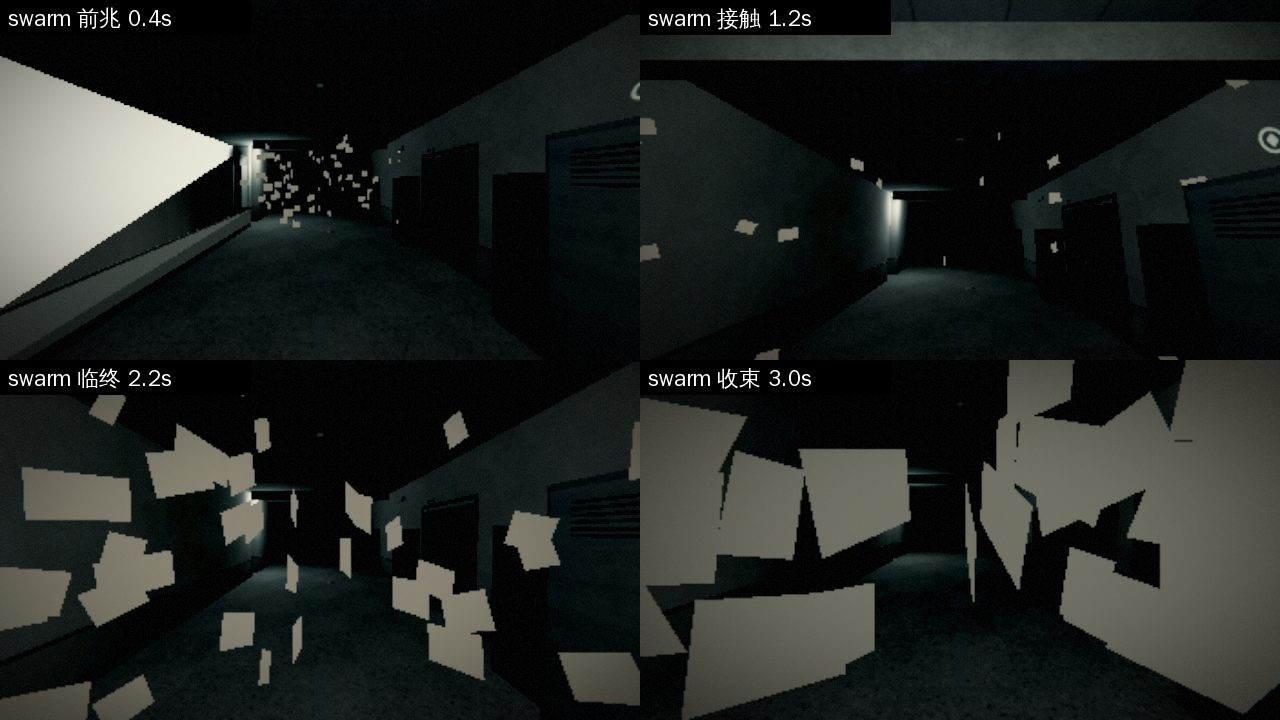
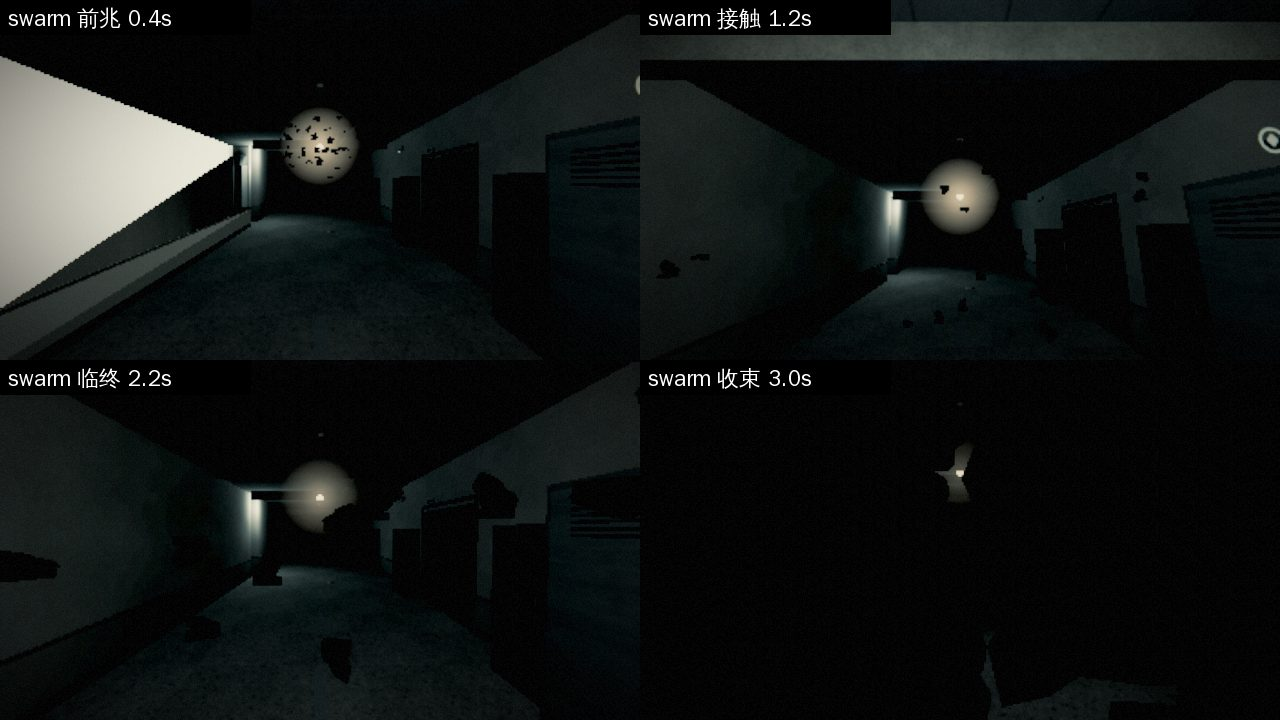
蛾群死亡演出：改用游戏里同一种黑色蛾子，灯下聚成一团
PR #18 合并时只把演出里的方片改成了黑色（cf2aad7）。这里换成完整版本：
- 蛾子和游戏里的蛾群（weather.js）是同一种：黑色翅膀 0x111111、黑色身子 0x080808、同样的翅膀形状，实例化一次画完。
- 按这个异象在游戏里的出场（「灯下面聚了一团飞蛾」）在蛾群起点吊一盏灯泡，黑蛾子映在灯光里才看得清；
  扑到脸上时黑翅膀糊满镜头，只从缝里漏一点光。灯光复用已有的光斑贴图，不新增着色器。
- 新增测试 test_death_moths_are_black_like_the_in_game_swarm，防止以后又改成别的颜色。
- 重拍 pictures/死亡演出/ 里蛾群的两张四段图（main 里还是旧的灰白色）；CG 计划分镜表、更新说明、截图索引同步。

Claude-Session: https://claude.ai/code/session_011CA8sN38sG1RtaArdSjX9J

diff --git a/game3d/js/fx/death-cg.js b/game3d/js/fx/death-cg.js
@@ -235,28 +235,50 @@ var DeathCG=(function(){
     }
   };
 
-  /* ---- swarm：蛾群。远处一团，绕成一根柱子把你围住，最后扑满镜头 ---- */
+  /* ---- swarm：蛾群。灯下一团黑色的蛾子，绕成一根柱子把你围住，最后扑满镜头 ---- */
   CG.swarm={
     build:function(c){
-      var i,r=c.rand,geo=new THREE.PlaneGeometry(0.17,0.1),m=mat(0x111111,undefined,{side:THREE.DoubleSide});      /* 与蛾群异象一致，保持黑色 */
-      c.moths=[]; c.mothIM=c.inst(geo,m,70);                 /* 70 只蛾子一次画完 */
-      for(i=0;i<70;i++) c.moths.push({m:{a:r()*6.283,r:0.6+r()*1.6,h:0.4+r()*2.4,sp:1.6+r()*1.8,ph:r()*6.283}});
+      var i,r=c.rand,n=70;
+      /* 和游戏里的蛾群同一种：黑色的翅膀（前翅尖、后翅圆）+ 黑色的身子（weather.js），实例化一次画完 */
+      var ws=new THREE.Shape();
+      ws.moveTo(0,0.012); ws.lineTo(0.05,0.03); ws.lineTo(0.072,0.018); ws.quadraticCurveTo(0.06,-0.012,0.04,-0.016);
+      ws.quadraticCurveTo(0.03,-0.04,0.008,-0.03); ws.lineTo(0,-0.014); ws.lineTo(0,0.012);
+      var wing=new THREE.ShapeGeometry(ws,3); wing.rotateX(-Math.PI/2);
+      c.wingIM=c.inst(wing,mat(0x111111,undefined,{side:THREE.DoubleSide}),n*2);
+      c.bodyIM=c.inst(new THREE.BoxGeometry(0.016,0.016,0.06),mat(0x080808),n);
+      c.moths=[];
+      for(i=0;i<n;i++) c.moths.push({a:r()*6.283,r:0.35+r()*1.3,h:r()*0.9,sp:(r()<0.5?-1:1)*(1.6+r()*1.8),ph:r()*6.283,fl:26+r()*16});
+      /* 前兆：灯下面聚着一团（游戏里这个异象也是这么出场的）——黑的蛾子映在灯光里才看得见 */
+      c.box(0.008,0.5,0.008,0x111111,undefined,0,2.55,4.5);                        /* 吊灯的线 */
+      c.bulb=c.mesh(new THREE.SphereGeometry(0.06,10,8),mat(0xffe9c0,undefined,{fog:false}),0,2.26,4.5);
+      var tex=(typeof shadeTex==='function')?shadeTex('pool'):null;
+      c.glow=c.add(new THREE.Sprite(new THREE.SpriteMaterial({map:tex,color:0xffd9a0,transparent:true,depthWrite:false,fog:false,
+        blending:THREE.AdditiveBlending,opacity:0.7})),0,2.26,4.5);
+      c.glow.scale.set(1.5,1.5,1);                                                   /* 不碰到天花板，免得光晕被切出硬边 */
       c.veil(0x0c0905);
     },
     update:function(c,k,view){
       var gather=ss(k,0.4,1.4), close=ss(k,1.4,2.5), cover=ss(k,2.5,3.2);
       c.cam(view,k,0,0.22*gather*(1-close)-0.1*close+0.05*Math.sin(k*17)*close*c.shk,-0.35*cover);
-      var cy=c.camY(), a=new THREE.Vector3(), b=new THREE.Vector3(), q=new THREE.Vector3();
-      c.moths.forEach(function(o,i){
-        var m=o.m, ang=m.a+k*m.sp;
-        a.set(Math.cos(ang)*m.r*0.7, 1.6+(m.h-1.6)*0.6, 4.5+Math.sin(ang)*m.r*0.5);            /* 远处的一团 */
+      var cy=c.camY(), a=new THREE.Vector3(), b=new THREE.Vector3(), q=new THREE.Vector3(), o=c.mothO||(c.mothO=new THREE.Object3D());
+      o.rotation.order='YZX';
+      var sc=1.5+1.0*cover;                                                          /* 扑到脸上的时候显得大 */
+      c.moths.forEach(function(m,i){
+        var ang=m.a+k*m.sp;
+        a.set(Math.cos(ang)*m.r*0.6, 2.2+(m.h-0.45)*0.9+Math.sin(ang*1.7+m.ph)*0.12, 4.5+Math.sin(ang)*m.r*0.6);   /* 绕着灯 */
         var R=2.2*(1-close)+0.3+0.15*m.r, ang2=m.a+k*m.sp*1.6;
-        b.set(Math.cos(ang2)*R, m.h+(cy-m.h)*close*0.7, Math.sin(ang2)*R);                    /* 绕着你的柱子 */
+        b.set(Math.cos(ang2)*R, 0.6+m.h*2+(cy-0.6-m.h*2)*close*0.7, Math.sin(ang2)*R);   /* 绕着你的柱子 */
         q.lerpVectors(a,b,gather);
         if(cover>0){ q.lerp(new THREE.Vector3(Math.cos(ang2)*0.18,cy+Math.sin(ang2*1.3)*0.1,0.16+0.08*Math.sin(ang2)),cover*0.9); }
-        setI(c.mothIM,i,q.x,q.y,q.z,Math.sin(k*9+m.ph)*0.5,ang2,0,0.25+0.75*Math.abs(Math.sin(k*28+m.ph)),1,1);   /* 扑翅 */
+        var head=m.sp>0?-ang2:Math.PI-ang2, flap=Math.sin(k*m.fl+m.ph)*1.1+0.25;
+        o.position.copy(q); o.rotation.set(0,head,0); o.scale.set(sc,sc,sc); o.updateMatrix(); c.bodyIM.setMatrixAt(i,o.matrix);
+        o.rotation.set(0,head,flap); o.updateMatrix(); c.wingIM.setMatrixAt(i*2,o.matrix);
+        o.rotation.set(0,head,-flap); o.scale.set(-sc,sc,sc); o.updateMatrix(); c.wingIM.setMatrixAt(i*2+1,o.matrix);
       });
-      c.mothIM.instanceMatrix.needsUpdate=true;
+      c.wingIM.instanceMatrix.needsUpdate=true; c.bodyIM.instanceMatrix.needsUpdate=true;
+      /* 灯：蛾子从前面飞过时一明一暗；它们离开灯扑向你以后，灯也暗下去 */
+      var fl=0.8+0.2*Math.sin(k*23)*Math.sin(k*7.3);
+      c.glow.material.opacity=0.7*fl*(1-0.4*close)*(1-0.6*cover);                  /* 扑脸时还留一点光，看得出是一只只蛾子 */
       c.shade(0.85*ss(k,2.9,3.2));
     }
   };

diff --git a/tests/test_death_timeline.py b/tests/test_death_timeline.py
@@ -291,6 +291,18 @@ class DeathTimelineTest(BrowserCase):
         }""")
         self.assertEqual(result, {})
 
+    def test_death_moths_are_black_like_the_in_game_swarm(self):
+        """蛾群扑面的死亡演出用的是和游戏里同一种黑色蛾子（翅膀、身子都是黑的），不是灰白色的片。"""
+        page = self.page()
+        result = page.evaluate("""() => {
+          doEnterRoom('teach1');syncCamera(0);deathFX('swarm',{preview:true});anfxUpdate(0.5);
+          const moths=[];ANFX.grp.traverse(o=>{if(o.isInstancedMesh)moths.push({hex:o.material.color.getHex(),n:o.count});});
+          const g=ANFX.grp;anfxClear();ThreeBackend.disposeGroup(g);
+          return moths;
+        }""")
+        self.assertEqual(sorted(m['hex'] for m in result), [0x080808, 0x111111])   # 身子、翅膀，和 weather.js 一样
+        self.assertEqual(sorted(m['n'] for m in result), [70, 140])                 # 每只两片翅膀
+
     def test_warm_up_compiles_every_death_cinematic_shader_in_advance(self):
         """开局预热以后，第一次播放任何一种死亡演出都不用再现编着色器（手机上会在死的那一下卡住）。"""
         page = self.page()

diff --git a/pictures/README.md b/pictures/README.md
@@ -1,7 +1,7 @@
 # 测试截图
 
 - [校园电梯](校园电梯/)：教学楼候梯位置和轿厢内部，1000×700、无头 Chromium 软件 WebGL；为固定场景截图，不代表真实手机画质或性能。
-- [死亡演出](死亡演出/)：垃圾桶死亡的桶内视角，来自真实死亡入口，1000×700；黑影逼近（SAN 归零）重做后的两个时刻——围拢、贴近；正门路线的门缝 0.4 / 1.1 / 2.4 / 3.4 秒（漏光、挤过去、校门迎面、身前门合上）；翻墙路线 0.3 / 0.9 / 2.0 / 3.3 秒（面前的墙、翻上墙头看见下一道、一道道沉下去、两侧挤过来）；问路人 0.3 / 1.0 / 1.6 / 2.6 秒（背对着、转头、笑着的洞、走到面前）。黑板死亡修正后立在视线正前方（以前固定在场景的一个方向上，常在身后）。均为调试预览，960×540。另有 `四段_<死法>_<类型>.jpg` 共 20 张：每张是一种死法的前兆 / 接触 / 临终 / 收束四帧拼图（1280×720），墙外长脖子和做操在室外拍，其余在教学楼走廊。之后补了 `四段_垃圾桶_trash.jpg`（桶里往上看 → 盖子合上 → 漏光、敲两下 → 黑），以及 `最低画质_四段_<死法>_<类型>.jpg` 五张（熄灯、暴雨、蛾群、拍肩、垃圾桶在最低画质下的四段，和中画质构图一致）。无头 Chromium 软件 WebGL；真机手机画面仍待补充。
+- [死亡演出](死亡演出/)：垃圾桶死亡的桶内视角，来自真实死亡入口，1000×700；黑影逼近（SAN 归零）重做后的两个时刻——围拢、贴近；正门路线的门缝 0.4 / 1.1 / 2.4 / 3.4 秒（漏光、挤过去、校门迎面、身前门合上）；翻墙路线 0.3 / 0.9 / 2.0 / 3.3 秒（面前的墙、翻上墙头看见下一道、一道道沉下去、两侧挤过来）；问路人 0.3 / 1.0 / 1.6 / 2.6 秒（背对着、转头、笑着的洞、走到面前）。黑板死亡修正后立在视线正前方（以前固定在场景的一个方向上，常在身后）。均为调试预览，960×540。另有 `四段_<死法>_<类型>.jpg` 共 20 张：每张是一种死法的前兆 / 接触 / 临终 / 收束四帧拼图（1280×720），墙外长脖子和做操在室外拍，其余在教学楼走廊。之后补了 `四段_垃圾桶_trash.jpg`（桶里往上看 → 盖子合上 → 漏光、敲两下 → 黑），以及 `最低画质_四段_<死法>_<类型>.jpg` 五张（熄灯、暴雨、蛾群、拍肩、垃圾桶在最低画质下的四段，和中画质构图一致）。蛾群的两张在 11 月 1 日重拍：蛾子改回和游戏里一样的黑色，灯泡下聚成一团。无头 Chromium 软件 WebGL；真机手机画面仍待补充。
 - [驾驶追逐](驾驶追逐/)：固定进度下的道路、障碍与驾驶 HUD，1000×700、无头 Chromium 软件 WebGL；不是自然长局或真机性能证明。
 - [传送门探索](传送门探索/)：物理实验室隧道入口，1000×700、无头 Chromium 软件 WebGL；为固定场景截图。
 - [前情光影](前情光影/)：同一机位的闭眼前与醒来后，触发真实前情转场并在闪光消退后截图；1000×700、无头 Chromium 软件 WebGL。

diff --git a/docs/plan/全死亡方式与结局CG重制、隐藏触发时刻校准.md b/docs/plan/全死亡方式与结局CG重制、隐藏触发时刻校准.md
@@ -169,7 +169,7 @@
 | `neck` | 围墙外的行人 | 墙头露出半个头 | 脖子一节节往上长，抬头跟着看 | 头从高处弯下来正对着你 | 你被拎离地面，脸贴到眼前 | 3.4 |
 | `shadow` | 影子慢一拍 | 脚下的影子拉长、慢半拍地晃 | 影子从地上立起来 | 一步步走过来 | 走进你身体里，全黑 | 3.2 |
 | `twin` | 窗外的楼在动、天台的第二个你 | 远处站着一个和你一样歪着头的人 | 踩着步子走过来 | 停在一臂远，俯身看你 | 走进你，变黑 | 3.2 |
-| `swarm` | 蛾群 | 远处一团蛾子 | 绕成柱子把你围住 | 收紧到头边，镜头发颤 | 扑满镜头 | 3.2 |
+| `swarm` | 蛾群 | 前方吊着的灯泡下聚着一团黑色的蛾子 | 绕成柱子把你围住 | 收紧到头边，镜头发颤 | 黑翅膀扑满镜头，只从缝里漏一点灯光 | 3.2 |
 | `shatter` | 车棚齐鸣 | 一排车铃一起抖、一起响 | 一个个炸开（一次轻闪） | 碎片停在你四周 | 一起扎进来 | 3.2 |
 | `drown` | 大暴雨 | 雨，低头看水漫过脚踝 | 水涨到腰 | 没过头顶，抬头看水面，气泡往上 | 往下沉，变暗 | 3.4 |
 | `water` | 天花板渗水、雨点成字 | 抬头看见水渍晕开、开始滴水 | 越滴越密，天花板鼓出水泡 | 水泡垂到脸上 | 水里变暗 | 3.4 |
@@ -203,6 +203,7 @@
 
 - 声音节拍：钟（第十三下）、走廊与熄灯（每灭一盏一声）、伸手、另一个你、拍肩身后的笑、笑脸贴脸都按分镜节拍出声。
 - 垃圾桶（`trash`）改为四段：桶里往上看 → 盖子合上 → 桶沿漏一圈光、外面在 1.9 秒和 2.35 秒各敲一下 → 黑；旧的假结局过场删除。截图 `pictures/死亡演出/四段_垃圾桶_trash.jpg`。
+- 蛾群颜色修正（2026-11-01）：第二轮把演出里的蛾子写成了灰白色的方片（为了暗处看得清），和 10 月 28 日定下的「蛾群是黑色的」冲突。现在用和游戏里同一种蛾子——黑色翅膀 `0x111111`、黑色身子 `0x080808`、同样的翅膀形状；为了看得清，按游戏里这个异象的出场（「灯下面聚了一团飞蛾」）在蛾群起点吊一盏灯泡，黑蛾子映在灯光里。新增测试 `test_death_moths_are_black_like_the_in_game_swarm`。（PR #18 合并时用的是审查提交 `cf2aad7` 的修正——只把方片改成黑色；这里换成完整版本：和游戏里同一种翅膀造型、灯光、回归测试和重拍的截图。）
 - 最低画质对比：熄灯、暴雨、蛾群、拍肩、垃圾桶五种在最低画质下的四段截图（`pictures/死亡演出/最低画质_四段_*.jpg`）与中画质构图一致，四段都看得清。
 
 **M3 结局分镜**（`game3d/js/cutscene.js`）

diff --git a/docs/3D更新说明.md b/docs/3D更新说明.md
@@ -685,5 +685,6 @@ PR #11 收尾时统计了各档的顶点数，合并以后按最新代码（main
 - 死亡演出看过 0.6 秒后，点一下或按空格 / 回车 / Esc 可以跳过，直接到死亡界面或预知梦惊醒；跳过和播完只结算一次，触屏点跳过的那一下不会按到随后出现的按钮。分镜里的声音按节拍只响一次（钟的第十三下、走廊和熄灯一盏盏灭、伸手、拍肩身后的笑等）。
 - 垃圾桶死亡改为四段式（桶里往上看 → 盖子合上 → 漏光、外面敲两下 → 黑），旧的假结局过场删除。
 - 结局演出按新分镜重做：闸门（车库点火、车灯里站着它，切到北门外黑影追出来，接驾驶）、白名单（闸机变白，门里的人一个个站出来目送）、门（充能、光圈、后退半步再走进去）；修正目送的人上下颠倒、镜头穿墙。
+- 修正：蛾群扑面的死亡演出之前把蛾子做成了灰白色的方片，和游戏里定下的黑色蛾群不一致；改回和游戏里同一种黑色蛾子（翅膀、身子都是黑的），在蛾群起点吊一盏灯泡，黑蛾子映在灯光里看得清，最后黑翅膀扑满镜头。
 - 性能：蛾群、碎片、雨和气泡、冰锥改为实例化，围观、走廊门框、车把、名单墙改为合并网格，演出期间额外绘制次数最多从 +126 降到 +21；开局和继续游戏后预先编译死亡演出用到的材质，第一次死亡时不再现编着色器；各演出共用的材质不再随每次清场释放。
 - 逐项记录、手机模拟数据和未完成项（安卓真机、实机试听）见 [CG 计划](plan/全死亡方式与结局CG重制、隐藏触发时刻校准.md)第三轮记录。
